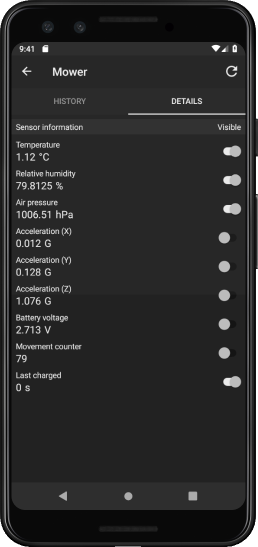
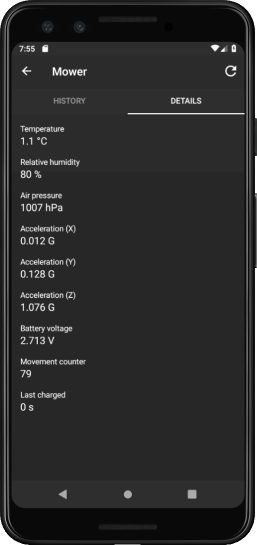
Update README regarding widget and configuration changes (#7)

diff --git a/README.md b/README.md
@@ -18,12 +18,14 @@ It consists of server part (running on Raspberry Pi, for example) to gather data
 ![Locations](doc/images/locations.png) 
 ![Locations](doc/images/history.png)
 ![Locations](doc/images/details.png)
+![Widget](doc/images/widget.png)
 - Implemented with Xamarin Forms 
 - Focus has been on Android (iOS app compiled without Apple Developer license works only a week at time)
 - Show latest measurement data and history graphs
 - Choose which measurements to show in UI
 - Get push notifications (alerts) from server 
 - Localizable (currently supports Finnish and English)
+- Android widget to show selected information on home screen
 - No background polling done
 ### Server (Vahti.Server)
 Server can be configured to run all or any of the services below. All services can run on same machine, or they can be distributed to different machines.
